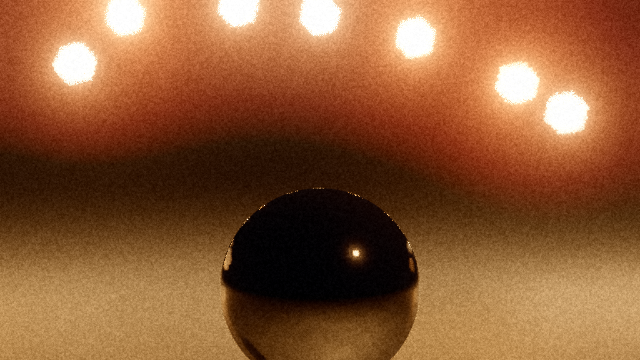
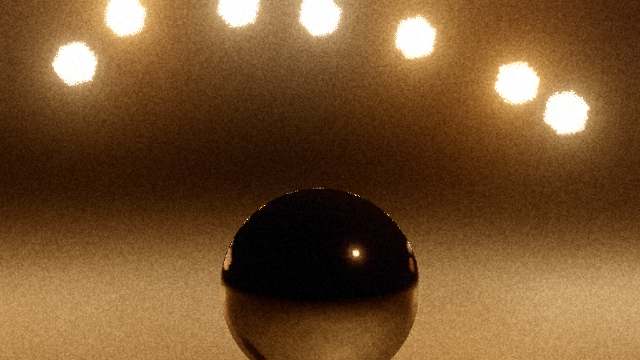
Keep film halation to a thin rim around highlights
Halation was added from the bloom pyramid, which is blurred across the
whole frame, with no limit on its strength. A lamp seen directly is
thousands of times brighter than mid grey, so even halation 0.05 turned a
whole night sky red.

Real halation is light reflecting off the back of the film base: a red
ring a few pixels wide that saturates. The film pass now samples the
exposed image on two small rings around each pixel (radius scaled with
resolution), takes only light above paper white, and compresses it, so a
lamp gets a red edge and the rest of the frame is untouched.

- A browser test renders a bulb at halation 0 and 1 and checks that the
  far sky is unchanged and the bulb's edge turns red (the far sky's red
  went from 0 to 22 before the fix).
- The golden-hour example is visually unchanged. The night-bokeh gallery
  image lost its red wash and is re-rendered with its original settings.
- The skill no longer says to turn halation off with lamps in view; the
  checker warns only about bloom.

Claude-Session: https://claude.ai/code/session_0145sPjJPF5656YaiGvPsHit

diff --git a/reality-js/src/render/post.glsl.js b/reality-js/src/render/post.glsl.js
@@ -197,6 +197,27 @@ float grainNoise(vec2 p, float seed) {
   return mix(mix(a, b, u.x), mix(c, d, u.x), u.y);
 }
 
+// Halation: light that passes through the film reflects off the back of the
+// base and exposes the red layer again, in a thin ring around highlights.
+// Real halation reaches a few pixels, not across the frame, and its rim
+// saturates instead of growing with the highlight. So it is sampled from
+// the image itself on two small rings (not from the wide bloom pyramid) and
+// compressed: a lamp in view gets a red edge, not a red frame.
+vec3 halation(vec2 uv) {
+  vec2 px = 1.0 / uResolution;
+  float r = max(1.5, uResolution.y / 400.0);
+  vec3 sum = vec3(0.0);
+  for (int i = 0; i < 8; i++) {
+    float a = float(i) * 0.7853982;
+    vec2 d = vec2(cos(a), sin(a)) * px * r;
+    sum += safe3(texture(uHdr, uv + d).rgb) + safe3(texture(uHdr, uv + d * 2.5).rgb);
+  }
+  // Only light above paper white (1.0 after exposure) causes halation.
+  vec3 over = max(sum / 16.0 - 1.0, vec3(0.0));
+  float l = dot(over, vec3(0.2126, 0.7152, 0.0722));
+  return vec3(1.0, 0.28, 0.1) * (l / (1.0 + 0.5 * l));
+}
+
 void main() {
   vec2 uv = gl_FragCoord.xy / uResolution;
   vec2 c = uv - 0.5;
@@ -210,9 +231,7 @@ void main() {
   vec3 bloom = safe3(texture(uBloom, uv).rgb / uBloomLevels);
   col = safe3(col);
   col = mix(col, bloom, uBloomAmount);
-  // Halation: red light scattered back through the film base, around
-  // highlights only.
-  col += uHalation * 0.5 * max(bloom - 0.5, vec3(0)) * vec3(1.0, 0.28, 0.1);
+  if (uHalation > 0.0) col += uHalation * 0.6 * halation(uv);
 
   // Natural vignetting of an ideal lens: cos^4 of the angle off axis.
   vec2 tanXY = (uv * 2.0 - 1.0) * vec2(uTanHalfW, uTanHalfH);

diff --git a/reality-js/tests/skill.test.js b/reality-js/tests/skill.test.js
@@ -75,9 +75,10 @@ test('the checker reports errors with a hint and flags common mistakes', () => {
     assert.match(text, /timeline duration is 0/);
 
     const glow = join(dir, 'glow.real');
-    writeFileSync(glow, 'background { intensity: 0.2 }\nbulb { position: [0, 2, 0] }\nfilm { halation: 0.3 }\nground { }\n');
+    writeFileSync(glow, 'background { intensity: 0.2 }\nbulb { position: [0, 2, 0] }\nfilm { bloom: 0.06, halation: 0.3 }\nground { }\n');
     const r3 = JSON.parse(check(glow, '--json').out);
-    assert.ok(r3.warnings.some((w) => /orange haze/.test(w)), r3.warnings.join('\n'));
+    assert.ok(r3.warnings.some((w) => /bloom 0.06 with lamps/.test(w)), r3.warnings.join('\n'));
+    assert.ok(!r3.warnings.some((w) => /halation/.test(w)), 'halation is safe with lamps in view');
   } finally {
     rmSync(dir, { recursive: true, force: true });
   }

diff --git a/reality-js/plugins/reality-js/skills/reality-js/SKILL.md b/reality-js/plugins/reality-js/skills/reality-js/SKILL.md
@@ -171,16 +171,18 @@ highlights), `white_balance` in kelvin (default 6,500; set about 3,200 to
 make tungsten light look neutral, or leave it for a warm look), `grain: 0.1-0.3`,
 `bloom`, `halation` and `vignette`. Keep these subtle; they are seasoning.
 
-Bloom and halation scale with how bright the highlights are, and a lamp
-seen directly is thousands of times brighter than the rest of the frame:
+Bloom spreads a share of every highlight across the frame, and a lamp seen
+directly is thousands of times brighter than the rest of it:
 
-| Brightest thing in frame | bloom | halation |
-|---|---|---|
-| Daylight, studio, sun only in reflections | 0.02-0.08 | 0-0.2 |
-| The sun itself, or bulbs, lamps and softboxes in view | 0.003-0.01 | 0 |
+| Brightest thing in frame | bloom |
+|---|---|
+| Daylight, studio, sun only in reflections | 0.02-0.08 |
+| The sun itself, or bulbs, lamps and softboxes in view | 0.003-0.01 |
 
-Too much of either spreads an orange haze over the whole frame. If a night
-render looks foggy without fog, set bloom 0.005 and halation 0 first.
+Too much bloom spreads a haze over the whole frame: if a night render looks
+foggy without fog, set bloom 0.005 first. Halation stays in a thin red rim
+around highlights whatever their brightness, so `halation: 0.1-0.4` is safe
+in any scene; use up to 1 for a strong film look.
 
 **Materials.** Use the named kinds, then tune. `matte` is paper, plaster and
 clay. `plastic` is paint and ceramics. `metal { color: gold, roughness: 0.1-0.4 }`.
